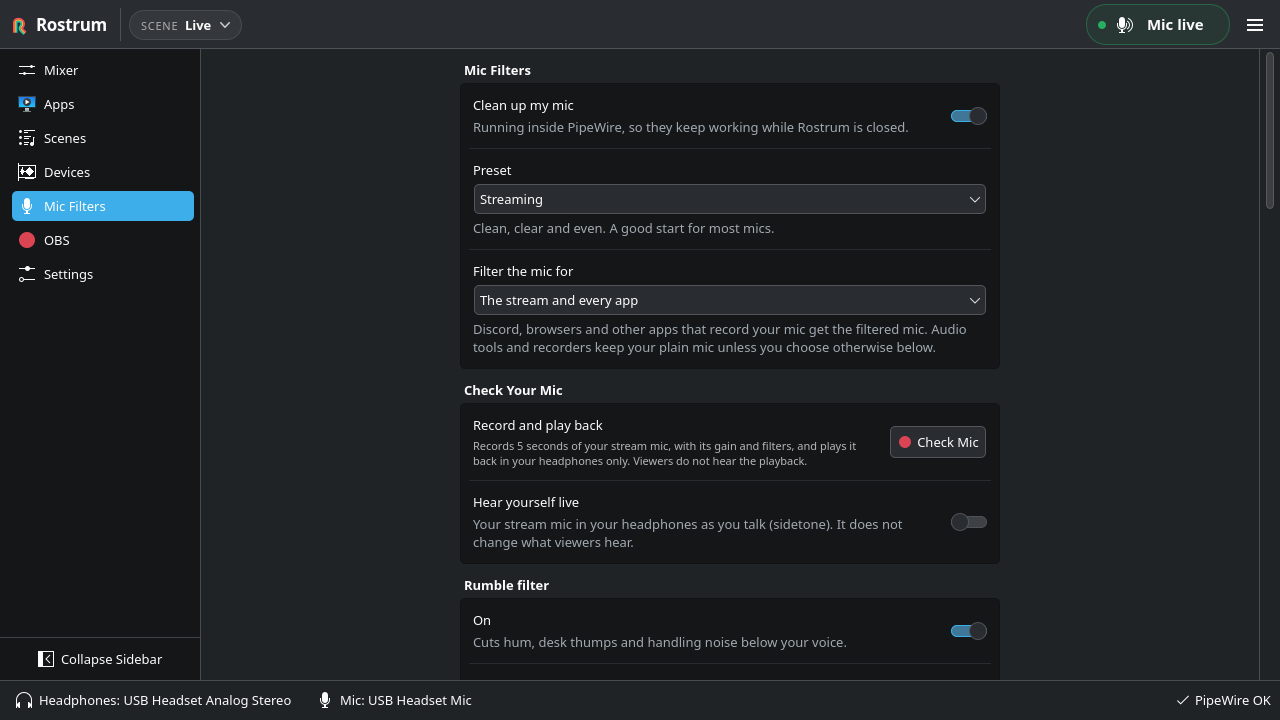
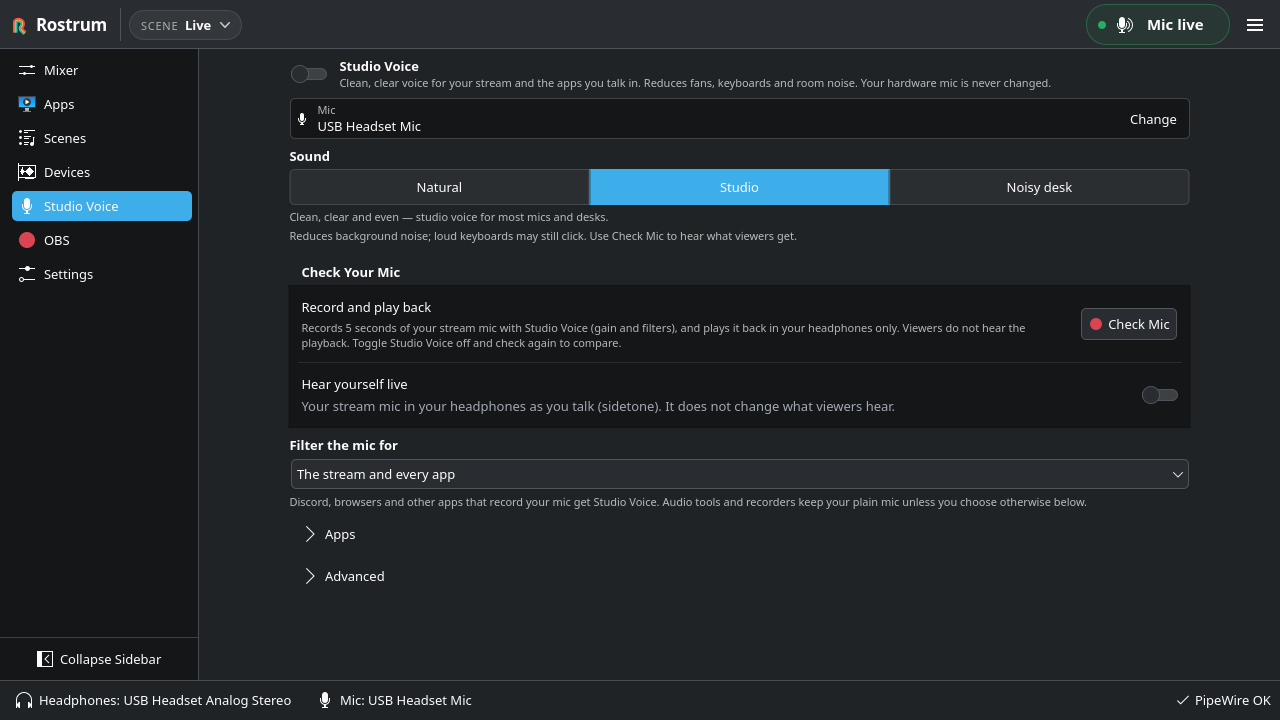
Docs: new screenshots of the redesigned pages

diff --git a/README.md b/README.md
@@ -185,7 +185,7 @@ Five minutes to a split stream:
    call apps using it follow the mixer and OpenDeck mute. Apps recording the hardware mic directly
    keep their own mute controls.
 
-   ![The Studio Voice page: the on switch, preset and who gets the filtered mic, then Check Your Mic and the rumble filter](docs/screenshots/micfilters.png)
+   ![The Studio Voice page: the on switch, the mic, the sound presets, Check Your Mic and who gets the filtered mic](docs/screenshots/micfilters.png)
 
 8. **Check how you sound.** Under "Check Your Mic" (on Studio Voice and Devices, or Check Mic in
    the header's mic popup), press **Check Mic** and talk for 5 seconds. Rostrum plays the
